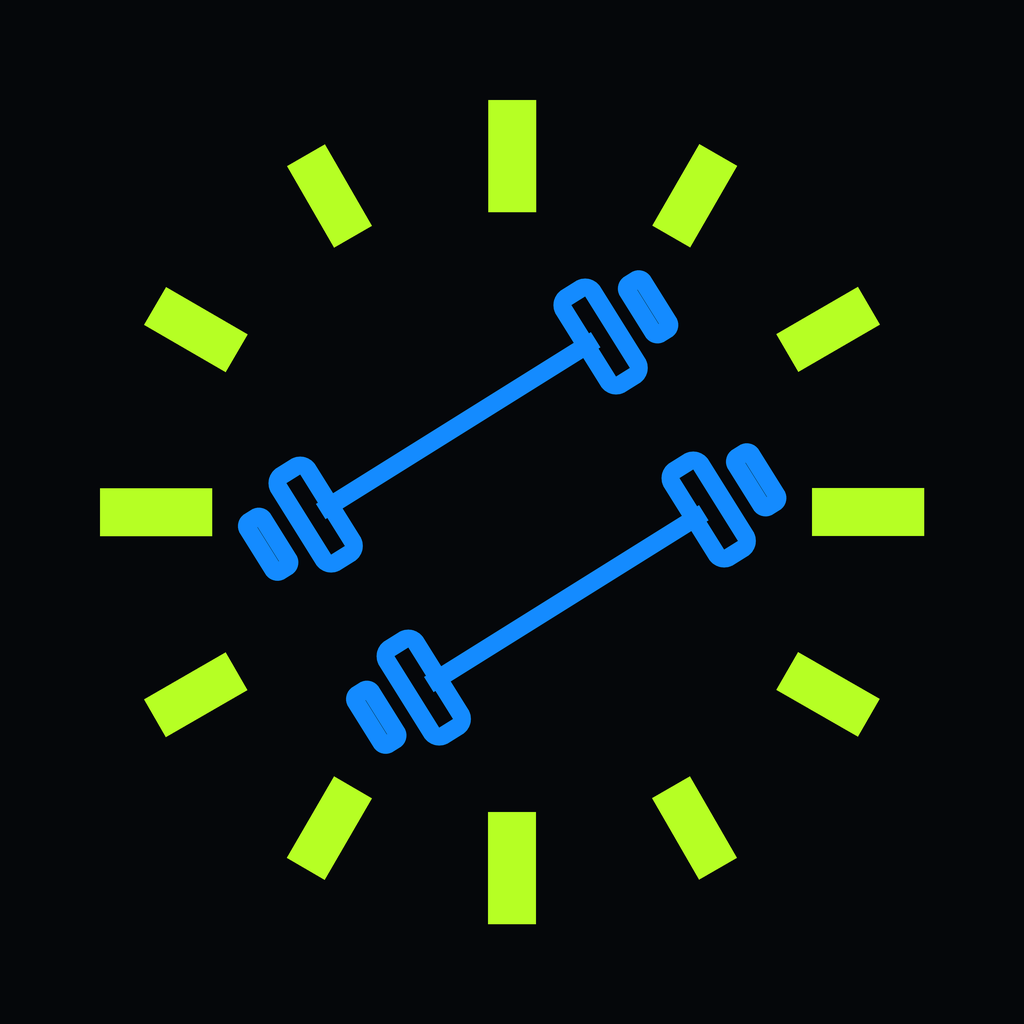
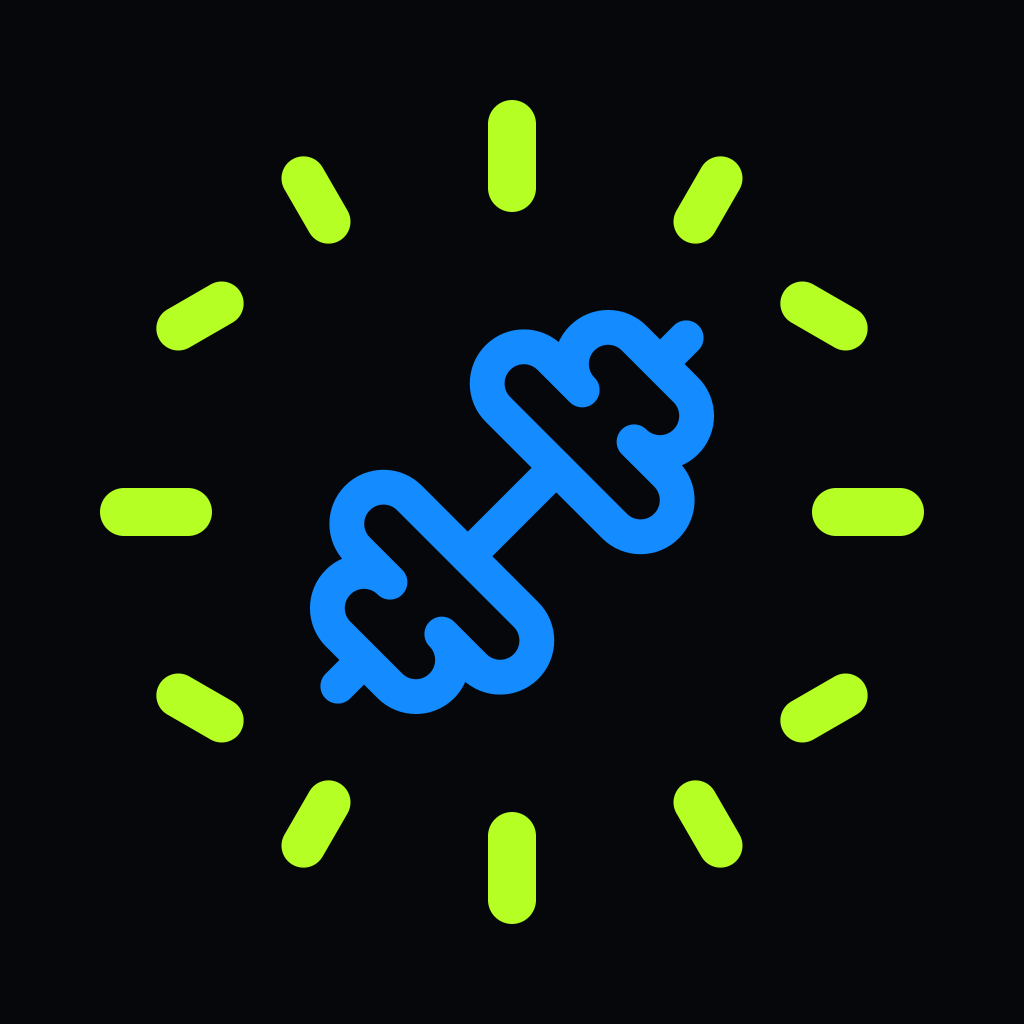
Restore blue login branding and native Apple sign in

diff --git a/components/onboarding.tsx b/components/onboarding.tsx
@@ -22,6 +22,14 @@ const WEEKDAYS = ['Mon', 'Tue', 'Wed', 'Thu', 'Fri', 'Sat', 'Sun']
 
 type AuthMode = 'signup' | 'signin'
 
+declare global {
+  interface Window {
+    ReactNativeWebView?: {
+      postMessage: (message: string) => void
+    }
+  }
+}
+
 function GoogleGlyph() {
   return (
     <svg viewBox="0 0 24 24" width={18} height={18} aria-hidden="true">
@@ -118,6 +126,53 @@ if (data.session?.user) {
       subscription.unsubscribe()
     }
   }, [onDone])
+
+  useEffect(() => {
+    const receiveNativeAuth = async (event: MessageEvent) => {
+      if (typeof event.data !== 'string') return
+
+      try {
+        const message = JSON.parse(event.data) as {
+          type?: string
+          accessToken?: string
+          refreshToken?: string
+          error?: string
+        }
+
+        if (message.type === 'WAITS_APPLE_SIGN_IN_CANCELLED') {
+          setAuthLoading(false)
+          return
+        }
+
+        if (message.type === 'WAITS_APPLE_SIGN_IN_ERROR') {
+          setAuthError(message.error || 'Apple sign in could not be completed. Please try again.')
+          setAuthLoading(false)
+          return
+        }
+
+        if (
+          message.type === 'WAITS_APPLE_SESSION' &&
+          message.accessToken &&
+          message.refreshToken
+        ) {
+          const { error } = await supabase.auth.setSession({
+            access_token: message.accessToken,
+            refresh_token: message.refreshToken,
+          })
+
+          if (error) {
+            setAuthError(error.message)
+            setAuthLoading(false)
+          }
+        }
+      } catch {
+        // Ignore unrelated messages from the embedded browser.
+      }
+    }
+
+    window.addEventListener('message', receiveNativeAuth)
+    return () => window.removeEventListener('message', receiveNativeAuth)
+  }, [])
 
   const toggleDay = (day: string) => {
     setDays((previousDays) =>
@@ -247,6 +302,13 @@ if (data.session?.user) {
     setAuthMessage(null)
     setAuthLoading(true)
 
+    if (window.ReactNativeWebView) {
+      window.ReactNativeWebView.postMessage(
+        JSON.stringify({ type: 'WAITS_NATIVE_APPLE_SIGN_IN' }),
+      )
+      return
+    }
+
     const { error } = await supabase.auth.signInWithOAuth({
       provider: 'apple',
       options: {
@@ -311,7 +373,7 @@ const { error } = await supabase
 }
 
   return (
-    <div className="relative flex h-full flex-col bg-background text-foreground">
+    <div className="relative flex h-full flex-col bg-primary text-white">
       {step === 1 ? (
         <div className="flex shrink-0 items-center px-7 pt-[calc(env(safe-area-inset-top)+16px)]">
           <button
@@ -335,7 +397,7 @@ const { error } = await supabase
                 width={64}
                 height={64}
                 priority
-                className="size-16 rounded-3xl shadow-lg"
+                className="size-16 rounded-3xl shadow-lg ring-1 ring-white/20"
               />
 
               <span className="text-balance text-4xl font-black uppercase tracking-[0.06em]">
@@ -343,7 +405,7 @@ const { error } = await supabase
               </span>
             </div>
 
-            <p className="mx-auto mt-3 max-w-[16rem] text-center text-lg font-medium text-primary-foreground/80">
+            <p className="mx-auto mt-3 max-w-[16rem] text-center text-lg font-medium text-white/85">
               <span className="block">Never lift alone.</span>
               <span className="block">Train with friends.</span>
               <span className="block">Join in with one tap.</span>
@@ -471,7 +533,7 @@ const { error } = await supabase
               type="button"
               onClick={handleAppleSignIn}
               disabled={authLoading}
-              className="flex w-full items-center justify-center gap-2.5 rounded-2xl bg-secondary py-3.5 text-base font-semibold text-secondary-foreground ring-1 ring-border transition-transform active:scale-[0.98] disabled:opacity-60"
+              className="flex w-full items-center justify-center gap-2.5 rounded-2xl bg-black py-3.5 text-base font-semibold text-white ring-1 ring-white/15 transition-transform active:scale-[0.98] disabled:opacity-60"
             >
               {authLoading ? (
                 <Loader2 size={19} className="animate-spin" />
@@ -485,7 +547,7 @@ const { error } = await supabase
               type="button"
               onClick={handleGoogleSignIn}
               disabled={authLoading}
-              className="flex w-full items-center justify-center gap-2.5 rounded-2xl bg-secondary py-3.5 text-base font-semibold text-secondary-foreground ring-1 ring-border transition-transform active:scale-[0.98] disabled:opacity-60"
+              className="flex w-full items-center justify-center gap-2.5 rounded-2xl bg-white py-3.5 text-base font-semibold text-black ring-1 ring-white/25 transition-transform active:scale-[0.98] disabled:opacity-60"
             >
               {authLoading ? (
                 <Loader2 size={19} className="animate-spin" />

diff --git a/components/app-shell.tsx b/components/app-shell.tsx
@@ -2,6 +2,7 @@
 
 import { ProfileSetup } from './profile-setup'
 import { useCallback, useEffect, useState } from 'react'
+import Image from 'next/image'
 import { StoreProvider } from './store'
 import { NavProvider, useNav } from './navigation'
 import { BottomNav } from './bottom-nav'
@@ -151,8 +152,17 @@ export function AppShell() {
       <div className="relative flex h-[100dvh] w-full max-w-[430px] flex-col overflow-hidden bg-background shadow-2xl md:h-[900px] md:max-h-[calc(100dvh-3rem)] md:rounded-[3rem] md:ring-1 md:ring-border">
         <div className="relative flex min-h-0 flex-1 flex-col">
         {stage === 'loading' ? (
-          <div className="flex h-full items-center justify-center text-sm font-semibold text-muted-foreground">
-            Checking your session…
+          <div className="flex h-full flex-col items-center justify-center bg-black text-sm font-semibold text-muted-foreground">
+            <Image
+              src="/icon.svg"
+              alt="WAITS"
+              width={72}
+              height={72}
+              priority
+              className="size-[72px] rounded-3xl"
+            />
+            <span className="mt-4 text-2xl font-black tracking-[0.14em] text-white">WAITS</span>
+            <span className="mt-3 text-xs font-semibold text-white/55">Loading your workouts…</span>
           </div>
         ) : stage === 'error' ? (
           <div className="flex h-full flex-col items-center justify-center gap-4 px-8 text-center">

diff --git a/components/screens/home-feed.tsx b/components/screens/home-feed.tsx
@@ -61,13 +61,13 @@ export function HomeFeed() {
   return (
     <div className="flex h-full flex-col">
       {/* Header */}
-      <header className="shrink-0 px-3 pb-2 pt-[calc(env(safe-area-inset-top)+14px)]">
+      <header className="shrink-0 overflow-visible px-3 pb-3 pt-[calc(env(safe-area-inset-top)+20px)]">
         <div className="flex min-h-11 items-center justify-center">
           <Wordmark iconSize={18} className="text-lg text-primary" />
         </div>
 
         {/* Friends rail */}
-        <div className="no-scrollbar -mx-5 mt-4 flex gap-4 overflow-x-auto px-5 pb-1">
+        <div className="no-scrollbar -mx-5 mt-6 flex gap-4 overflow-x-auto px-5 pb-2 pt-1">
           {railUsers.map((u) => (
             <button
               key={u.id}

diff --git a/components/screens/chats-list.tsx b/components/screens/chats-list.tsx
@@ -218,7 +218,7 @@ const declineFriendRequest = async (requestId: string) => {
 
   return (
     <div className="flex h-full flex-col">
-      <header className="flex min-h-11 shrink-0 items-center justify-center px-3 pb-2 pt-[calc(env(safe-area-inset-top)+14px)]">
+      <header className="flex min-h-11 shrink-0 items-center justify-center px-3 pb-2 pt-[calc(env(safe-area-inset-top)+20px)]">
         <SectionWordmark>Chats</SectionWordmark>
       </header>
 
@@ -439,3 +439,4 @@ const declineFriendRequest = async (requestId: string) => {
     </div>
   )
 }
+

diff --git a/components/screens/search.tsx b/components/screens/search.tsx
@@ -140,7 +140,7 @@ const realMatchedUsers = useMemo(() => {
 
   return (
     <div className="flex h-full flex-col">
-      <header className="shrink-0 px-3 pb-3 pt-[calc(env(safe-area-inset-top)+14px)]">
+      <header className="shrink-0 px-3 pb-3 pt-[calc(env(safe-area-inset-top)+20px)]">
         <div className="mb-3 flex min-h-11 items-center justify-center">
           <SectionWordmark>Social</SectionWordmark>
          </div>
@@ -281,3 +281,4 @@ const realMatchedUsers = useMemo(() => {
     </div>
   )
 }
+

diff --git a/components/screens/profile-view.tsx b/components/screens/profile-view.tsx
@@ -536,7 +536,7 @@ export function ProfileView({ userId, asTab = false }: { userId: string; asTab?:
   return (
     <div className="flex h-full flex-col">
       {/* Top bar */}
-      <header className="relative flex min-h-11 shrink-0 items-center gap-2 px-3 pb-1 pt-[calc(env(safe-area-inset-top)+14px)]">
+      <header className="relative flex min-h-11 shrink-0 items-center gap-2 px-3 pb-1 pt-[calc(env(safe-area-inset-top)+20px)]">
         {!asTab ? (
           <button
             type="button"

diff --git a/components/screens/create-workout.tsx b/components/screens/create-workout.tsx
@@ -195,7 +195,7 @@ export function CreateWorkout() {
   return (
     <div className="flex h-full flex-col bg-background">
       {/* Header */}
-      <header className="flex shrink-0 items-center justify-between border-b border-border px-3 pb-3 pt-[calc(env(safe-area-inset-top)+14px)]">
+      <header className="flex shrink-0 items-center justify-between border-b border-border px-3 pb-3 pt-[calc(env(safe-area-inset-top)+20px)]">
         <button
           type="button"
           onClick={back}

diff --git a/components/screens/community-chat.tsx b/components/screens/community-chat.tsx
@@ -303,3 +303,4 @@ export function CommunityChat() {
     </div>
   )
 }
+

diff --git a/components/workout-card.tsx b/components/workout-card.tsx
@@ -150,3 +150,4 @@ export function WorkoutCard({
     </article>
   )
 }
+

diff --git a/components/screens/workout-detail.tsx b/components/screens/workout-detail.tsx
@@ -378,3 +378,4 @@ function Row({
     </div>
   )
 }
+
